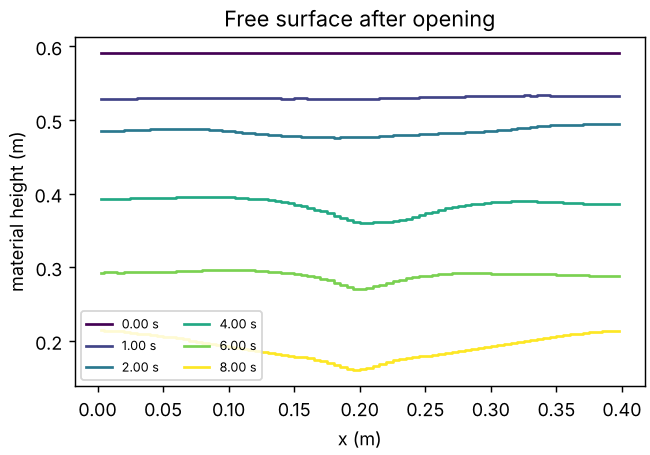
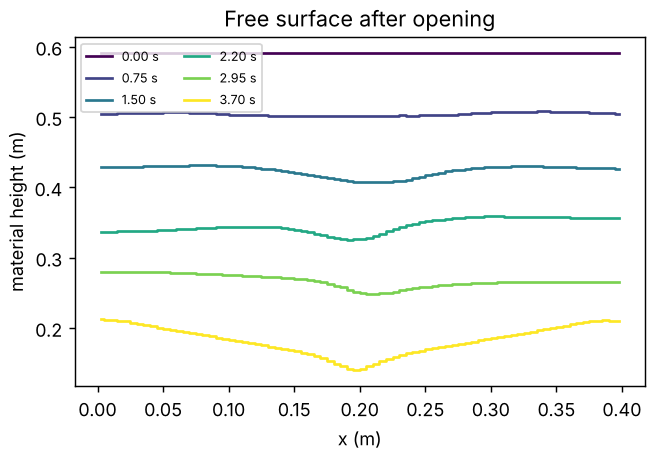
WP 3.3q: results page, figures and animation with the outlet fix; 2.5 mm mesh number
Claude-Session: https://claude.ai/code/session_01KEGtGSbiy1dSXuksmvqRQt

diff --git a/docs/results/silo-prototype.md b/docs/results/silo-prototype.md
@@ -1,7 +1,10 @@
-# T0 silo discharge in the 2D prototype (WP 3.3p)
+# T0 silo discharge in the 2D prototype (WP 3.3p, 3.3q)
 
-Date: 2026-11-15. Code: `prototype/discharge2d.py` on `prototype/void2d.py` (rules 1 to 10).
-Decision: `docs/decisions/0026-silo-outlet-and-discharge-rate.md`.
+Date: 2026-11-15. Code: `prototype/discharge2d.py` on `prototype/void2d.py` (rules 1 to
+10b). Decisions: `docs/decisions/0026-silo-outlet-and-discharge-rate.md` (outlet),
+`0027-outlet-void-and-discharge-rate.md` (WP 3.3q: the outlet bug that held the rate at
+a third of Beverloo, and the rate-law checks). Every number and figure below is with the
+WP 3.3q fix.
 
 ## Set-up
 
@@ -10,22 +13,22 @@ Tank 0.40 m wide, material to 0.60 m, void above; walls and floor with Coulomb f
 phi 35 deg, psi 0, rho 1800 kg/m3, nu 0.3. Stage 1: gravity ramped over 0.1 s, damping
 250 1/s, 0.3 s in all, outlet closed. Stage 2: outlet opens instantly, damping off.
 
-**Stiffness.** These runs use E = 0.1 MPa, not T0's 10 MPa: the rate depends on E
-(below), and E = 0.1 MPa is the stiffest value that gives steady flow at an affordable
-cost (1 to 1.5 h per run at 5 mm). This is a numerical limitation, not a material choice.
+**Stiffness.** These runs use E = 0.1 MPa, not T0's 10 MPa: the rate still depends on E
+(below, WP 3.3r), and stiffer runs cost more (the time step scales with 1 / sqrt(E)).
+This is a numerical limitation, not a material choice.
 
 Reproduce (each writes an .npz for the plots):
 
     python3 prototype/discharge2d.py --run --cell 0.005 --E 1e5 --D 0.06 \
-        --frames --frame-dt 0.05 --m-stop 0.3 --save D06.npz
+        --frames --frame-dt 0.05 --m-stop 0.3 --save D06.npz      # about 25 min
     python3 tools/plot_discharge.py --frames D06.npz --out docs/results/silo-prototype
 
 ## Animation
 
 ![Discharge, D = 60 mm, 5 mm cells](silo-prototype/discharge.gif)
 
-Left: speed; right: equivalent plastic strain (log scale). 8.3 s after opening, 70
-percent of the material has left.
+Left: speed; right: equivalent plastic strain (log scale). Run to 70 percent of the
+material discharged.
 
 ## Flow pattern (D = 0.06 m, 5 mm cells)
 
@@ -35,10 +38,14 @@ percent of the material has left.
 
 ![Free surface](silo-prototype/free_surface.png)
 
-A fast channel forms above the outlet, the bottom corners stay at rest (corner speed 0.4
-percent of the outlet speed at the end of the run) and a crater opens in the free
-surface once the flowing zone reaches it (about 3 s after opening). This is the pattern
-the references describe (`docs/spec/silo-reference.md` section 3).
+A fast channel forms above the outlet (about 1.1 m/s at the outlet centre), the bottom
+corners stay at rest (mean corner speed over 0.3 s 0.06 percent of the outlet speed at
+the end of the run, instantaneous 0.85 percent), the bed descends almost flat at first
+and a crater opens once the flowing zone reaches the surface (visible from about 1.8 s;
+86 mm deep at 3.7 s). This is the funnel-flow pattern the references describe
+(`docs/spec/silo-reference.md` section 3). The faint arcs at 0.9 s are elastic waves
+from the opening in the soft bed. Rate over the run 82.1 kg/s/m (C 0.99), steady within
+3.8 percent from 0.3 to 1.6 s.
 
 ## Discharge rate
 
@@ -46,51 +53,60 @@ the references describe (`docs/spec/silo-reference.md` section 3).
 
 ![Rate against outlet width](silo-prototype/rate_law.png)
 
-| D (m) | Rate, 5 mm (kg/s/m) | C (exponent 1.5) | Variation in 0.1 s windows | Beverloo, C = 1.45 (kg/s/m) |
-| --- | --- | --- | --- | --- |
-| 0.04 | 14.3 | 0.32 | 5.9 % | 65.4 |
-| 0.06 | 36.6 | 0.44 | 5.8 % | 120.1 |
-| 0.08 | 68.4 | 0.54 | 6.6 % | 185.0 |
+`tests/test_proto_silo_rate.sh` (5 mm, rate from 97 to 88 percent of the mass at
+opening; in CI):
 
-Rate measured as the slope of the tank mass from 95 to 70 percent of the mass at
-opening. Fitted exponent 2.26 (band 1.3 to 1.7); C 0.32 to 0.54, 0.49 fitted (band 1.0
-to 1.9). Before WP 3.2r's rule 9 (top layers spread sideways, merged 2026-11-15) the
-same runs gave 23.3 / 52.6 / 85.4 kg/s/m, exponent 1.87: a change in the free-surface
-rule moved the rate by 20 to 40 percent, more evidence that the numerics set it.
+| D (m) | Rate, 5 mm (kg/s/m) | C (exponent 1.5) | Variation in 0.1 s windows | Beverloo, C = 1.45 (kg/s/m) | Before WP 3.3q |
+| --- | --- | --- | --- | --- | --- |
+| 0.04 | 44.7 | 0.99 | 1.7 % | 65.4 | 14.3 |
+| 0.06 | 82.2 | 0.99 | 2.5 % | 120.1 | 36.6 |
+| 0.08 | 135.1 | 1.06 | 6.1 % | 185.0 | 68.4 |
 
-| Check (WP 3.3p brief) | Result | Band | Status |
+Fitted exponent 1.59 (band 1.3 to 1.7), C = 1.035 (band 1.0 to 1.9; thin margin). C
+of about 1.0 is below the mu(I) continuum value 1.45, as expected for T0's higher
+friction (phi 35 deg against mu_s 0.32 to 0.38, `docs/spec/silo-reference.md` section 3).
+The figures above are from runs to 70 to 85 percent of the mass (rate windows from 95
+percent), which give the same rates within 3 percent.
+
+| Check | Result | Band | Status |
 | --- | --- | --- | --- |
 | Nothing leaves before opening | 0 kg exactly | 0 | Pass |
-| Mass in tank + discharged | constant to 1e-13 | 1e-8 | Pass |
-| Steady rate while the bed is deeper than W | within 6.6 % (5 mm) | 10 % | Pass |
-| Head independence, H 0.9 against 0.6 m | 0.975 (10 mm) | within 10 % | Pass |
-| Stagnant corners | 0.4 % of the outlet speed (5 mm, D = 0.06 m); 1.1 and 1.4 % for D = 0.08 and 0.04 m | below 1 % | Pass for D = 0.06 m only |
-| Crater | 59 mm deep at the end (D = 0.06 m) | present | Pass |
-| Exponent | 2.26 (5 mm) | 1.3 to 1.7 | **Fail** |
-| C | 0.32 to 0.54 (5 mm) | 1.0 to 1.9 | **Fail** |
-| Mesh, 5 against 2.5 mm (D = 0.06 m, 0.2 to 0.5 s) | 36.8 against 45.2 kg/s/m, 23 % | 10 % | **Fail** |
+| Mass in tank + discharged | constant to 2e-14 | 1e-8 | Pass |
+| Steady rate | within 1.7 to 6.1 % | 10 % | Pass |
+| Head independence, H 0.9 against 0.6 m (5 mm) | 0.992 | within 10 % | Pass |
+| Stagnant corners (D = 0.06 m, mean over 0.3 s) | 0.83 % of the outlet speed (instantaneous 4.2 %: elastic ringing) | below 1 % | Pass (thin) |
+| Crater | 9 mm at the end of the check | present | Pass |
+| Exponent | 1.59 | 1.3 to 1.7 | Pass |
+| C | 1.035 | 1.0 to 1.9 | Pass |
+| Mesh, 10 against 5 mm (D = 0.06 m) | 81.4 against 82.2 kg/s/m, 1 % | 10 % | Pass |
+| Mesh, 5 against 2.5 mm (D = 0.06 m, 0.2 to 0.5 s) | 81.5 against 93.3 kg/s/m, 14 % (C 0.98 against 1.13) | 10 % | **Fail** |
+| Stiffness (10 mm, D = 0.06 m) | 81 / 73 / 54 kg/s/m at E = 0.1 / 1 / 10 MPa | within 10 % | **Fail** (WP 3.3r) |
 
-## Why the rate is low: numerical dissipation
+At 10 mm the 0.04 m outlet is only 4 cells wide and gives C 0.75 (the 0.06, 0.08 and
+0.10 m outlets give 0.98), which is why the rate-law test runs at 5 mm.
 
-The rate depends on E and on the mesh, which a rate-independent material should not do.
-D = 0.06 m, 10 mm cells, rate 0.05 to 0.4 s after opening (measured before the WP 3.2r
-merge, which lowers the 10 mm rate at 0.1 MPa from 42 to 28 kg/s/m):
+## Why the rate was low (fixed in WP 3.3q)
 
-| E (MPa) | 0.01 | 0.1 | 1 | 10 (T0) |
-| --- | --- | --- | --- | --- |
-| Rate (kg/s/m) | 47 rising to 274, not steady | 38 | 17 | 6 |
+Decision 0026 blamed the Riemann solver's dissipation. The real cause was the outlet: a
+partly filled outlet cell leans its material against the cell above (the ghost beyond
+the outlet is empty), the outlet face then counted as untouched and got the closed-wall
+velocity 0, and the cell was squeezed by the material arriving from above. The outlet
+row rang between 0 and 9 kPa and held the column up. With rule 10b (an outlet face
+takes the free velocity even when the material leans away) the outlet row carries 0 to
+0.2 kPa and the rate roughly doubles to triples.
 
-The acoustic Riemann solver's jump terms act as a viscosity of order rho c h grad v,
-which grows with the wave speed c (so with sqrt(E)) and falls with the cell size h.
-Reducing these terms speeds the flow up but makes it noisy, because they are also the
-only damping of elastic and odd-even modes (table in decision 0026). Also, rate-independent
-Coulomb friction does not by itself select a unique flow rate; every continuum reference
-value of C used mu(I) rheology. The fix is WP 3.3q (`docs/wp/WP-3.3q.md`): a damping that
-does not resist plastic flow, mu(I) friction, or both.
+## Still open: stiffness and fine mesh (WP 3.3r)
+
+The rate still falls with E: 81 / 73 / 54 kg/s/m at E = 0.1 / 1 / 10 MPa (10 mm,
+D = 0.06 m). At E = 1 MPa it also falls with refinement (73 at 10 mm, 61 at 5 mm),
+while at 0.1 MPa it rises between 5 and 2.5 mm (82 to 93). So it is not simply a
+dissipation of order rho c h that refinement removes. Reducing the Riemann jump terms
+(rule 11, `DISS_N`, `DISS_T`) still makes the flow noisy (decision 0027).
 
 ## Cost
 
 Python prototype, one core (four runs sharing four cores): 5 mm cells and E = 0.1 MPa
-run about 470 s of wall time per second of discharge (80 x 124 cells); 2.5 mm about 7
-times that. At T0's E = 10 MPa the
+run about 400 s of wall time per second of discharge (80 x 124 cells); 2.5 mm about 7
+times that. `tests/test_proto_silo_rate.sh` runs its four 5 mm cases in parallel
+(1407 s on four shared cores). At T0's E = 10 MPa the
 time step is 10 times smaller.

diff --git a/docs/STATUS.md b/docs/STATUS.md
@@ -36,7 +36,7 @@ Phase 2 (the C++ Eulerian solver: 2.1 to 2.5c and 2.4b done; 2.6 waits for Phase
 | 3.2r | Prototype column collapse deposit slope | Done (staircase); toe split to 3.2s | Rule 9 (decision 0024): top layers (al >= 0.1) spread sideways in the x sweep. Deposit body smooth: steepest slope without the toe 27.9 deg (a = 0.5) and 33.9 (a = 2), was 45 and 59; run-outs 0.40 and 1.8 (20 cells 0.45 and 2.45), top kept. The 3.2q blow-up came from spreading in the y sweep, not the cap. Toe still 62.3 / 48.0 deg per cell (10 cells), 46.6 / 39.8 (20 cells); test stays in `tests/manual/` |
 | 3.2s | Prototype collapse toe | Done | Decision 0025 (Sia chose the fitted flank angle, 2026-11-15). `tests/test_proto_collapse.sh` now in CI and passing: fitted slope 22.2 / 22.3 deg, run-outs 0.40 / 1.8. Partly filled cells are frictionless, but giving them strength (`FLOOR`) made the toe worse (a = 2: 59.9 deg, run-out 1.5). The a = 0.5 creep is full cells sliding along faces held at yield by the shear cap; making slow faces stick (`VSTICK`) stops it but the toe then reads 30 to 54 deg depending on whether the last column is just over one cell. With creep stopped the toe is still 39.7 deg: the nose of a 1 to 2 cell flowing layer (resolution). Both knobs off, defaults unchanged. Single-cell slopes printed for information only |
 | 3.3p | Prototype silo discharge (target T0) | Done (outlet, end-to-end run); rate law split to 3.3q | `prototype/discharge2d.py`, outlet = rule 10 of `void2d.py` (decision 0026). `tests/test_proto_silo_discharge.sh` passes (about 3 to 5 min): nothing leaks, mass 1e-14, head independence 0.975. Results, figures and animation: `docs/results/silo-prototype.md`. Steady rate, stagnant corners and crater are right, but the rate is a third to a half of Beverloo (5 mm, E = 0.1 MPa: C 0.32 to 0.54, exponent 2.26; 5 against 2.5 mm 23 percent apart) and depends on E (6 / 17 / 38 kg/s/m at 10 / 1 / 0.1 MPa): Riemann dissipation |
-| 3.3q | Prototype silo discharge rate (split from 3.3p) | Done (rate law at E = 0.1 MPa); stiffness split to 3.3r | The low rate was an outlet bug, not dissipation: a partly filled outlet cell leaned away from the face, which then got the wall velocity 0 and shut (rule 10b, decision 0027). `tests/test_proto_silo_rate.sh` now in CI and passing (5 mm, four processes, about 20 to 25 min): C 0.99 / 0.99 / 1.06 for D = 0.04 / 0.06 / 0.08 m, exponent 1.59, fitted C 1.035, steady within 6 %, averaged corner speed 0.8 %, head 0.992. Outlet test gained C >= 0.8 (now 0.98). Not met: E (81 / 73 / 54 kg/s/m at 0.1 / 1 / 10 MPa, 10 mm), and 2.5 against 5 mm (see results page) |
+| 3.3q | Prototype silo discharge rate (split from 3.3p) | Done (rate law at E = 0.1 MPa); stiffness split to 3.3r | The low rate was an outlet bug, not dissipation: a partly filled outlet cell leaned away from the face, which then got the wall velocity 0 and shut (rule 10b, decision 0027). `tests/test_proto_silo_rate.sh` now in CI and passing (5 mm, four processes, about 20 to 25 min): C 0.99 / 0.99 / 1.06 for D = 0.04 / 0.06 / 0.08 m, exponent 1.59, fitted C 1.035, steady within 6 %, averaged corner speed 0.8 %, head 0.992. Outlet test gained C >= 0.8 (now 0.98). Not met: E (81 / 73 / 54 kg/s/m at 0.1 / 1 / 10 MPa, 10 mm), and 2.5 against 5 mm (93 against 82 kg/s/m, 14 %) |
 | 3.3r | Prototype discharge rate at T0 stiffness (split from 3.3q) | Next | Brief: `docs/wp/WP-3.3r.md`. Rate falls with E; at 1 MPa it also falls with refinement (73 at 10 mm, 61 at 5 mm), so not a coarse-mesh dissipation. Cause unknown |
 
 ## Standing instruction from Sia (2026-11-14)

diff --git a/docs/wp/WP-3.3r.md b/docs/wp/WP-3.3r.md
@@ -34,11 +34,15 @@ checked, at the real stiffness.
   `constitutive/batch.py` as an option, and report both.
 - Keep the void, collapse, settle, discharge and rate tests passing unchanged.
 
+- Also explain the fine-mesh rise at E = 0.1 MPa (D = 0.06 m: 81.4 / 82.2 / 93.3
+  kg/s/m at 10 / 5 / 2.5 mm).
+
 ## Done when
 
 A new `tests/test_proto_silo_stiffness.sh` (10 mm, D = 0.06 m) passes: rate at
 E = 0.1, 1 and 10 MPa within 10 percent of each other, 0.1 s windows within 10 percent,
-averaged corner speed below 1 percent of the outlet speed at each E.
+averaged corner speed below 1 percent of the outlet speed at each E. Reported: 5 against
+2.5 mm at E = 0.1 MPa within 10 percent.
 
 ## Out of scope
 

diff --git a/docs/decisions/0027-outlet-void-and-discharge-rate.md b/docs/decisions/0027-outlet-void-and-discharge-rate.md
@@ -90,6 +90,9 @@ about flow, so it now uses velocities averaged over a further 0.3 s of discharge
   percent and left it as noisy. The E dependence is also not a coarse-mesh dissipation
   of order rho c h: at E = 1 MPa the rate falls with refinement (73 kg/s/m at 10 mm,
   61 at 5 mm) while at 0.1 MPa it does not move (81, 82). Cause unknown.
+- Fine mesh: D = 0.06 m, rate over 0.2 to 0.5 s after opening: 81.5 kg/s/m at 5 mm,
+  93.3 at 2.5 mm (14 percent, C 0.98 against 1.13; 10 against 5 mm agreed to 1
+  percent). The done-when's 10 percent between 5 and 2.5 mm is not met; C stays in band.
 - mu(I) was not needed to reach the band and was not built.
 
 ## Consequences

diff --git a/docs/wp/WP-3.3q.md b/docs/wp/WP-3.3q.md
@@ -72,3 +72,7 @@ within 10 percent, and 5 mm against 2.5 mm within 10 percent.
   of the bed's first elastic mode, 0.28 s); 0.1 s still read 1.5 percent at 5 mm.
 - Outlet test (CI) gained a guard C >= 0.8 at D = 0.06 m. Passes (185 s).
 - mu(I) not built: not needed to reach the band.
+- 2.5 mm, D = 0.06 m, rate 0.2 to 0.5 s: 93.3 kg/s/m against 81.5 at 5 mm (14 percent;
+  done-when asks 10). Carried to WP 3.3r with the stiffness dependence.
+- Done-when status: rate test passes at 5 mm and is in CI; E and 2.5 mm bands not met,
+  split to WP 3.3r. Next: WP 3.3r.
